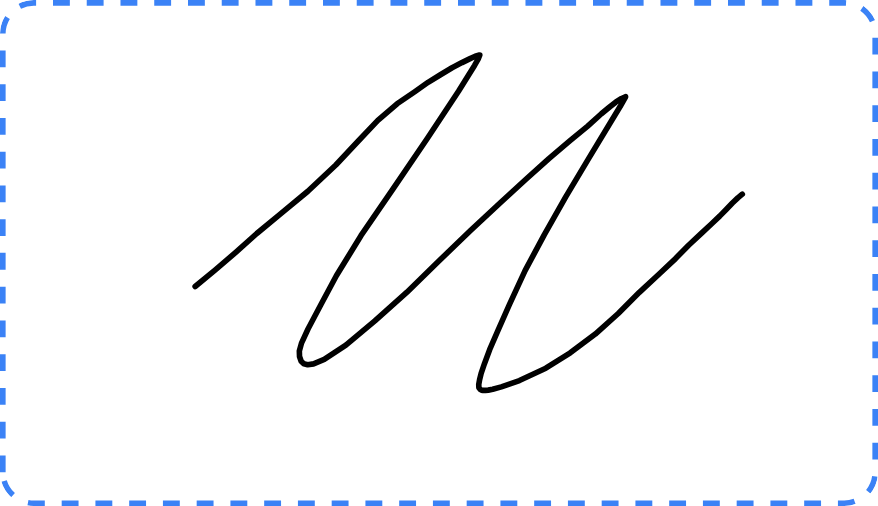
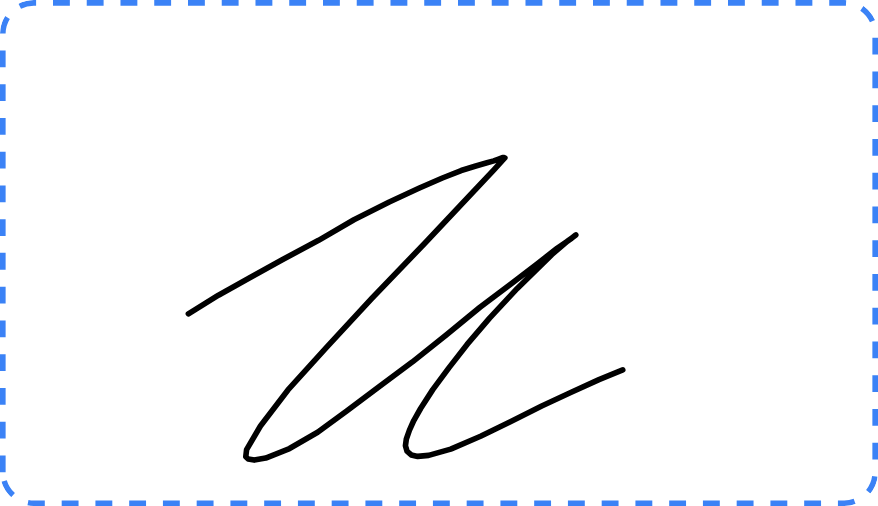
Update work order ID generation for imports
Modify `server/projectDb.ts` to generate a random 4-digit number for customer work order IDs when none exist, instead of the previous 8-digit number.

Replit-Commit-Author: Agent
Replit-Commit-Session-Id: d66e7c4f-4734-44fc-8642-c36297a34104
Replit-Commit-Checkpoint-Type: intermediate_checkpoint
Replit-Commit-Event-Id: 9eb22cf0-53ae-4ed3-ab16-3df284d6b2e7
Replit-Commit-Screenshot-Url: https://storage.googleapis.com/screenshot-production-us-central1/a55e897c-d53b-44bb-b370-bfc7f4d8c734/d66e7c4f-4734-44fc-8642-c36297a34104/EK6g6TJ
Replit-Helium-Checkpoint-Created: true

diff --git a/server/projectDb.ts b/server/projectDb.ts
@@ -593,9 +593,9 @@ export class ProjectWorkOrderStorage {
         const nextId = BigInt(maxId) + BigInt(1);
         return String(nextId);
       } else {
-        // No numeric IDs exist, generate a random 8-digit integer
-        // Range: 10000000 to 99999999
-        const randomId = Math.floor(10000000 + Math.random() * 90000000);
+        // No numeric IDs exist, generate a random 4-digit integer
+        // Range: 1000 to 9999
+        const randomId = Math.floor(1000 + Math.random() * 9000);
         return String(randomId);
       }
     } finally {
